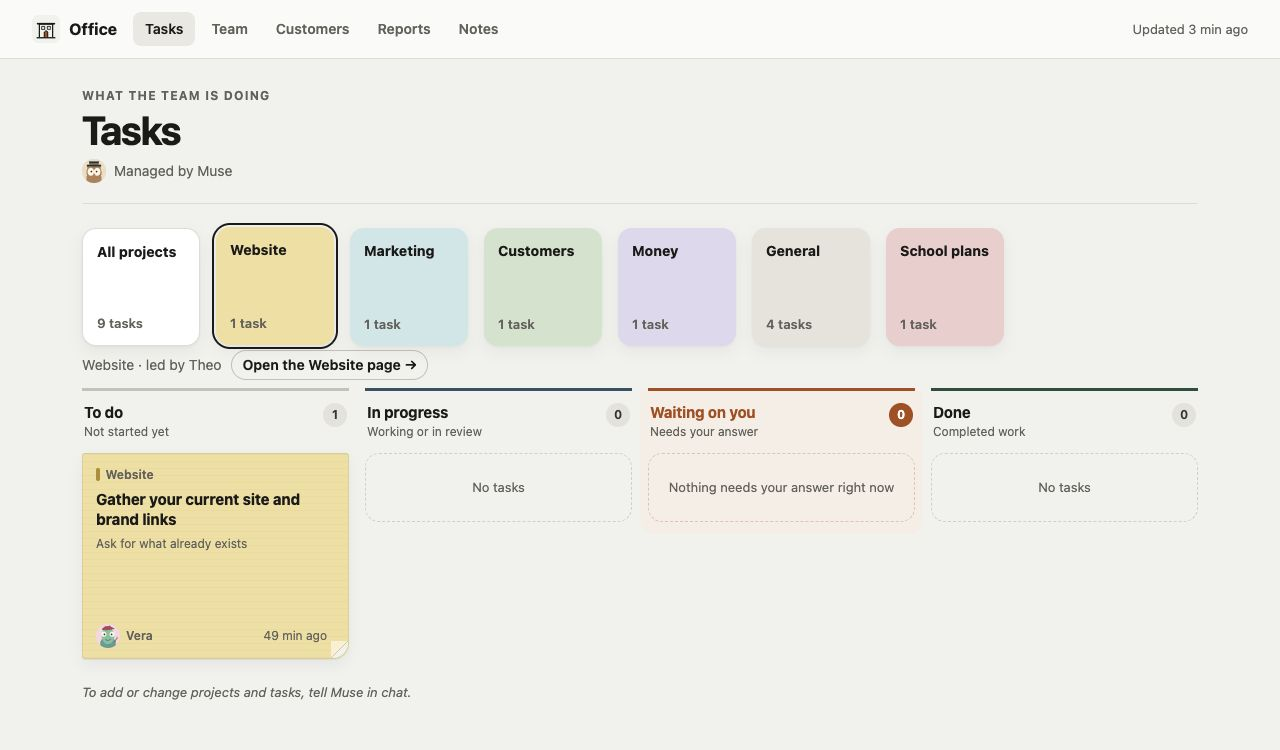
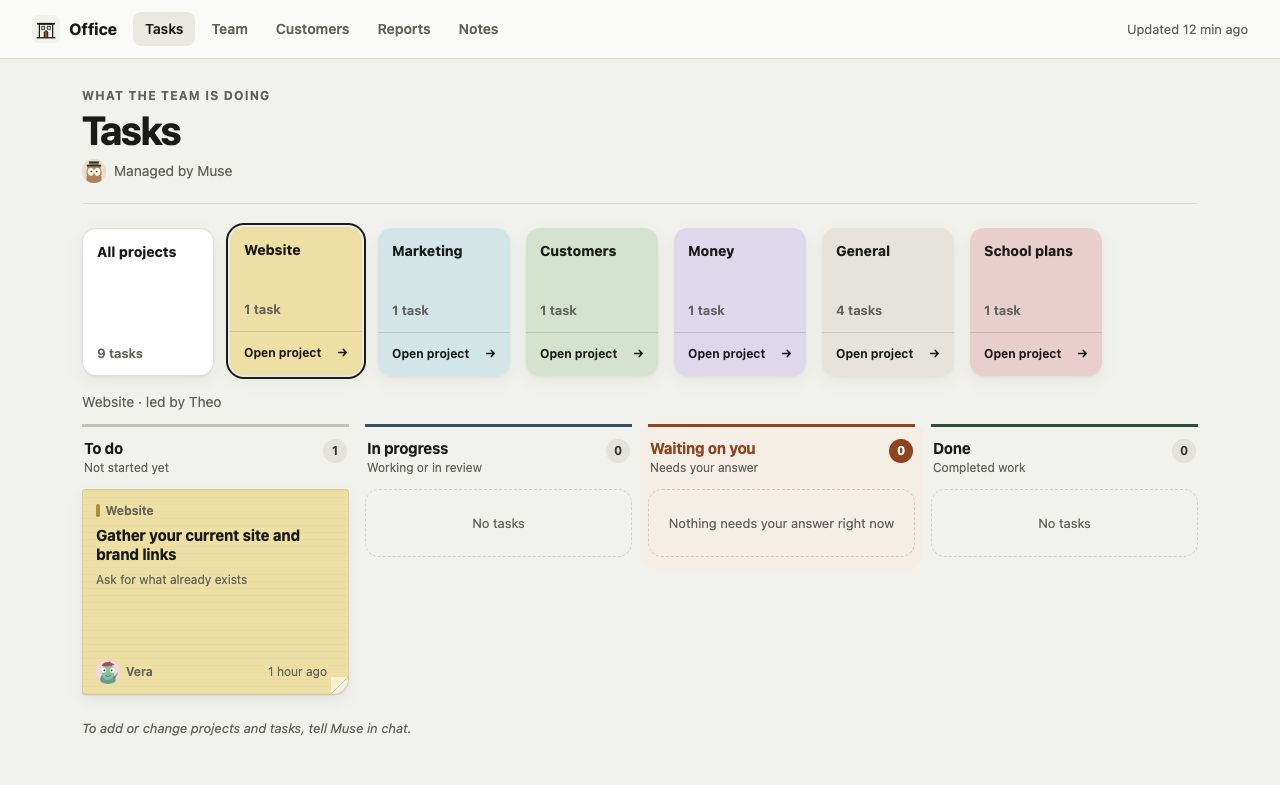
fix(board): separate project navigation and protect tile borders
Keep the main project target as the task filter and expose a separate, accessible project-page link. Reserve space around selected and focused tiles on phones and desktops.

diff --git a/src/app/projects/projects.css b/src/app/projects/projects.css
@@ -6,21 +6,24 @@
 .pj-lede { display: flex; align-items: center; gap: 8px; }
 
 /* ---------------- board: project tiles ---------------- */
-.pj-tiles { display: flex; gap: 16px; flex-wrap: wrap; margin-top: 24px; }
+.pj-tiles { display: flex; gap: 16px; flex-wrap: wrap; margin: 16px -8px 0; padding: 8px; scroll-padding-inline: 8px; }
 .pj-tile {
-  position: relative; width: 118px; height: 118px; display: flex; flex-direction: column; justify-content: space-between;
-  padding: 14px 14px 12px; border-radius: var(--r-card); background: var(--c); color: var(--ink);
+  position: relative; width: 132px; min-height: 148px; display: flex; flex-direction: column; flex: 0 0 auto;
+  border-radius: var(--r-card); background: var(--c); color: var(--ink);
   box-shadow: 0 1px 2px rgba(0, 0, 0, 0.04), 0 6px 16px rgba(0, 0, 0, 0.05); transition: transform 0.12s;
 }
 .pj-tile:hover { transform: translateY(-1px); }
 .pj-tile.all { background: var(--card); border: 1px solid var(--line); }
 /* the chosen project wears an ink ring; its fill stays its own colour */
-.pj-tile.on, .pj-tile:focus-visible { outline: 2px solid var(--ink); outline-offset: 2px; }
+.pj-tile.on, .pj-tile:has(.pj-tile-filter:focus-visible) { outline: 2px solid var(--ink); outline-offset: 2px; }
+.pj-tile-filter { display: flex; flex: 1; flex-direction: column; justify-content: space-between; gap: 16px; min-height: 104px; padding: 14px 14px 12px; border-radius: inherit; }
+.pj-tile-filter:focus-visible { outline: none; }
+.pj-tile-open { display: flex; align-items: center; justify-content: space-between; gap: 4px; min-height: 44px; padding: 8px 14px; border-top: 1px solid rgba(0, 0, 0, 0.12); border-radius: 0 0 var(--r-card) var(--r-card); font-size: var(--t-badge); font-weight: 650; }
+.pj-tile-open:hover { background: rgba(255, 255, 255, 0.3); text-decoration: underline; }
+.pj-tile-open:focus-visible { outline: 2px solid var(--ink); outline-offset: -4px; }
 .pj-tile-nm { font-size: var(--t-sec); font-weight: 750; line-height: 1.25; }
 .pj-tile-n { font-size: var(--t-cap); font-weight: 600; color: var(--soft); }
 .pj-info { min-height: 28px; margin-top: 4px; display: flex; align-items: center; gap: 10px; flex-wrap: wrap; font-size: var(--t-sec); color: var(--soft); }
-.pj-info a { color: var(--ink); font-weight: 650; padding: 4px 10px; border: 1px solid #c9c7bf; border-radius: var(--r-pill); }
-.pj-info a:hover { border-color: var(--ink); }
 
 /* ---------------- board: lanes ---------------- */
 /* four lanes on a 16px gutter; each lane knows the paper behind it (--lane-bg) so a note's folded corner shows the right background */
@@ -143,13 +146,13 @@
   .pp-body { grid-template-columns: minmax(0, 1fr); grid-template-areas: "side" "flow" "md"; }
 }
 @media (max-width: 720px) {
-  /* tiles scroll sideways; the row fades out so a clipped tile reads as "more"; 4px of room keeps the ink ring inside the scroll box */
+  /* Leave room for the 4px ring and hover; no fade mask over the end tile. */
   .pj-tiles {
-    flex-wrap: nowrap; overflow-x: auto; scrollbar-width: none; padding: 4px 24px 6px 4px; margin: 24px -4px 0;
-    -webkit-mask-image: linear-gradient(90deg, #000 calc(100% - 32px), transparent); mask-image: linear-gradient(90deg, #000 calc(100% - 32px), transparent);
+    flex-wrap: nowrap; overflow-x: auto; scrollbar-width: thin;
   }
-  .pj-tiles::-webkit-scrollbar { display: none; }
-  .pj-tile { width: 88px; height: 88px; flex: 0 0 auto; padding: 10px 10px 8px; }
+  .pj-tile { min-height: 132px; }
+  .pj-tile-filter { min-height: 88px; padding: 10px; }
+  .pj-tile-open { padding-inline: 10px; }
   .pj-tile-nm { font-size: var(--t-cap); }
   /* lanes stack, Waiting on you first; one column of notes per lane */
   .pj-board { display: flex; flex-direction: column; align-items: stretch; gap: 16px; }

diff --git a/src/components/board/ProjectTile.tsx b/src/components/board/ProjectTile.tsx
@@ -3,18 +3,18 @@ import type { CSSProperties } from "react";
 import "@/app/projects/projects.css";
 
 /**
- * One square above the board: the project's pastel with its name top-left and its
- * task count bottom-left. Without a colour it is the white "All projects" tile.
- * The chosen tile wears an ink outline.
+ * The main target filters tasks; the separate footer opens project context.
+ * Keeping sibling links makes both destinations explicit and keyboard accessible.
  */
-export function ProjectTile({ href, name, count, color, chosen }: { href: string; name: string; count: number; color?: string; chosen: boolean }) {
+export function ProjectTile({ href, projectHref, name, count, color, chosen }: { href: string; projectHref?: string; name: string; count: number; color?: string; chosen: boolean }) {
   const fill = color ? ({ "--c": color } as CSSProperties) : undefined;
   return (
-    <Link href={href} className={"pj-tile" + (color ? "" : " all") + (chosen ? " on" : "")} style={fill} aria-current={chosen ? "true" : undefined}>
-      <span className="pj-tile-nm">{name}</span>
-      <span className="pj-tile-n">
-        {count} {count === 1 ? "task" : "tasks"}
-      </span>
-    </Link>
+    <div className={"pj-tile" + (color ? "" : " all") + (chosen ? " on" : "")} style={fill}>
+      <Link href={href} className="pj-tile-filter" aria-current={chosen ? "true" : undefined} aria-label={`Show ${projectHref ? `${name} tasks` : "all tasks"} (${count})`}>
+        <span className="pj-tile-nm">{name}</span>
+        <span className="pj-tile-n">{count} {count === 1 ? "task" : "tasks"}</span>
+      </Link>
+      {projectHref ? <Link href={projectHref} className="pj-tile-open" aria-label={`Open ${name} project`}>Open project <span aria-hidden="true">→</span></Link> : null}
+    </div>
   );
 }

diff --git a/src/app/projects/page.tsx b/src/app/projects/page.tsx
@@ -1,4 +1,3 @@
-import Link from "next/link";
 import type { CSSProperties } from "react";
 import { all, COLUMNS, COLUMN_LABEL, type Column, type MemberRow, type ProjectRow, type TaskRow } from "@/lib/db";
 import { Avatar } from "@/components/Avatar";
@@ -58,7 +57,7 @@ export default async function ProjectsPage({ searchParams }: { searchParams: Pro
       <nav className="pj-tiles" aria-label="Show one project">
         <ProjectTile href={filterHref()} name="All projects" count={onBoard.length} chosen={!chosen} />
         {projects.map((p) => (
-          <ProjectTile key={p.slug} href={filterHref(p.slug)} name={p.name} count={counts.get(p.slug) ?? 0} color={p.color} chosen={chosen?.slug === p.slug} />
+          <ProjectTile key={p.slug} href={filterHref(p.slug)} projectHref={`/projects/${encodeURIComponent(p.slug)}`} name={p.name} count={counts.get(p.slug) ?? 0} color={p.color} chosen={chosen?.slug === p.slug} />
         ))}
       </nav>
       <div className="pj-info">
@@ -68,7 +67,6 @@ export default async function ProjectsPage({ searchParams }: { searchParams: Pro
               {chosen.name}
               {lead ? ` · led by ${lead.name}` : ""}
             </span>
-            <Link href={`/projects/${chosen.slug}`}>Open the {chosen.name} page →</Link>
           </>
         ) : null}
       </div>

diff --git a/spec/DESIGN.md b/spec/DESIGN.md
@@ -11,7 +11,7 @@ The Office should feel like one calm, everyday app: a paper-coloured page, reada
   --ink: #1c1c19;       /* text */
   --soft: #6d6c66;      /* secondary text */
   --line: #e2e1db;      /* hairlines */
-  --needs: #b3541e;     /* the one accent: waiting on you */
+  --needs: #a54619;     /* the one accent: waiting on you */
   --needs-bg: #fbeee6;
   --done: #2d5a45;
 
@@ -54,7 +54,10 @@ Spare pastels for new projects: `#efd3d3` / `#b86e6e`, `#d3e0e6` / `#5f8497`, `#
 Use task cards in four status lists with project selectors above. Projects are
 umbrellas for related tasks. Keep a readable paper surface, project accent, task
 title, owner portrait/name, a short update, and the current question.
-Open a card for task details. Keep project context accessible separately. No white
+Open a card for task details. Each project selector has a separate **Open project →**
+footer, accessible without first filtering. Use sibling links, a 44px footer touch
+target, and at least 8px outer padding for selection/focus outlines. On phones,
+scroll the row horizontally without a fade mask over the tiles. No white
 speech bubbles inside coloured cards. Keep project filters and agent portraits
 when refining the layout. Keep the optimized sticky-note design. No percentage
 bars, checklist dashboards, project forms, or milestone panels. See

diff --git a/spec/PAGES.md b/spec/PAGES.md
@@ -19,8 +19,11 @@ To do, In progress, Waiting on you, Done. Each sticky-note card opens its task.
 Show the project colour/name, title, owner portrait/name (including Done),
 one short update or waiting question, and due/updated time. Preserve the
 optimized original colours, paper texture, and card proportions; no white
-speech bubbles. Keep all completed tasks discoverable. A selected project
-links to its context page. To add, rename, or archive a project, the person
+speech bubbles. Keep all completed tasks discoverable. Each project tile has
+two distinct targets: its name/count filters tasks; a separate **Open project →**
+footer opens its context page directly. All projects is filter-only. Leave at
+least 8px padding around the selector row so selected/focus borders are visible,
+including at either end of phone scrolling. To add, rename, or archive a project, the person
 asks Muse in chat; Muse uses the actions and preserves its work and history.
 
 Use four lists on desktop, two on smaller screens, and one column on phones
